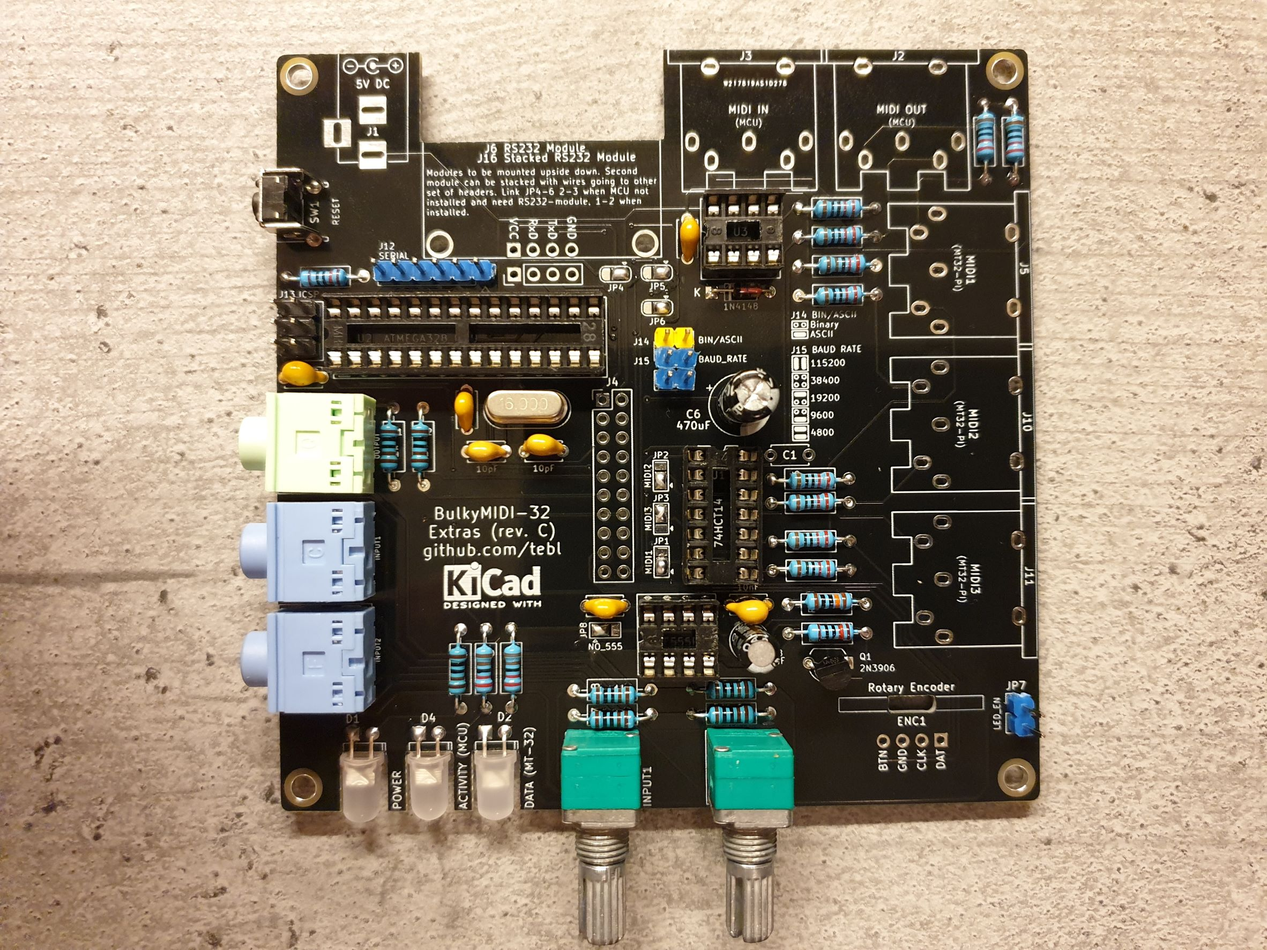
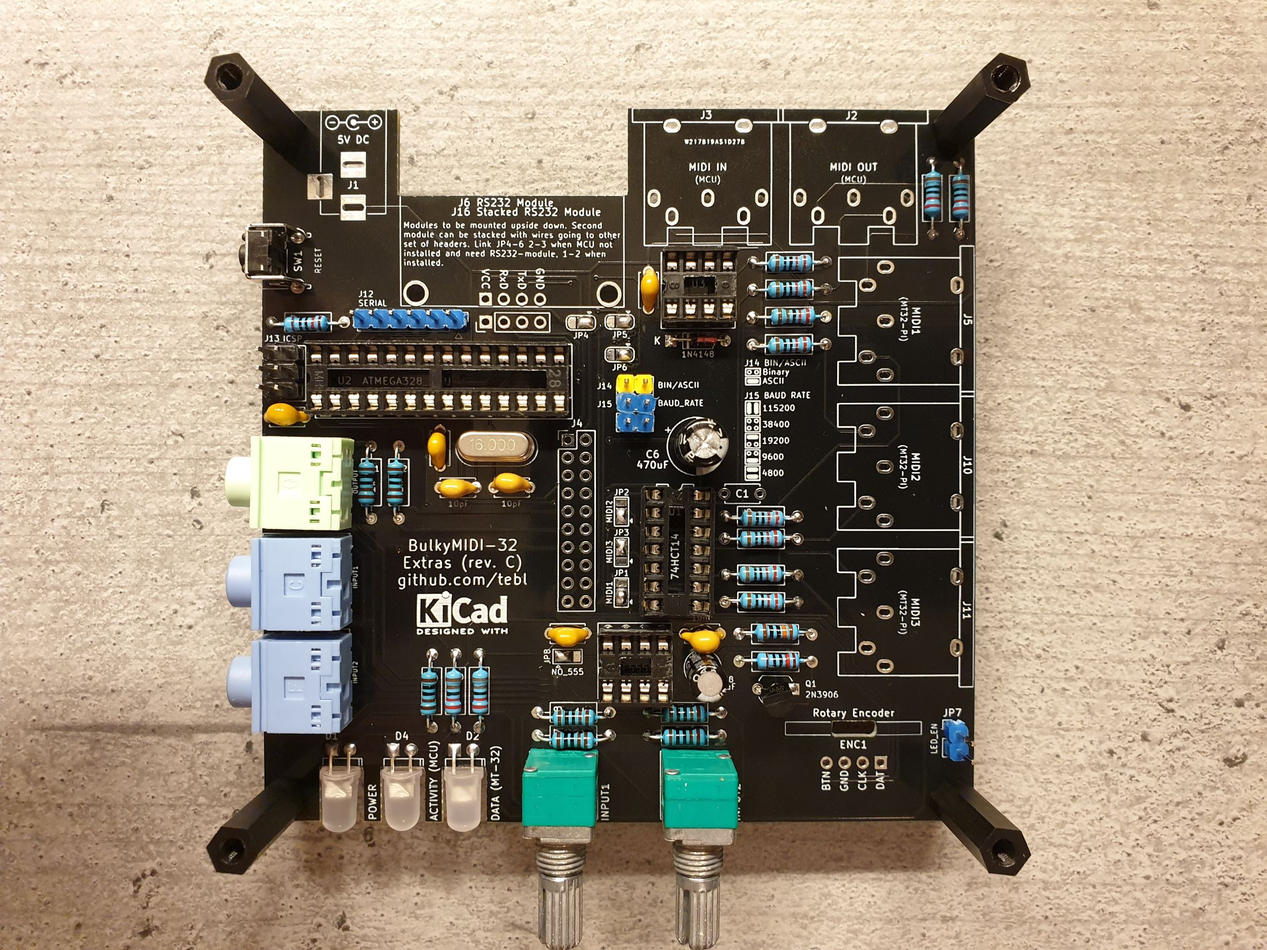
Update README

diff --git a/BulkyMIDI-32 Extras/README.md b/BulkyMIDI-32 Extras/README.md
@@ -1,7 +1,7 @@
 # BulkyMIDI-32 Extras
-Building the BulkyMIDI-32, there were a few features I wanted to add that didn't really fit within the $5 (100x100mm) dimensions on PCBWay. For that reason, the features that weren't strictly needed were instead moved onto this board instead - which is why it's referred to as the *extras* board in most of the documentation. 
+Building the BulkyMIDI-32, I quickly ran into a bit of a problem with the format I had decided upon - there were simply too many features that I had originally wanted, but couldn't fit within the regular $5 board limitations (100x100mm). All of the extra features that weren't strictly required in order for the MT32-PI to function, were moved onto this board instead - which is why it's referred to as the *extras*-board in most of the documentation. 
 
-![Build 042](https://github.com/tebl/BulkyMIDI-32/raw/main/gallery/build_extras_042.jpg)
+![Build 042](https://github.com/tebl/BulkyMIDI-32/raw/main/gallery/build_extras_049.jpg)
 
 The additional features provided by this module are as follows:
 * Providing an option for mounting RS232-modules for level translation
@@ -50,18 +50,20 @@ I will usually try to install components sorted by their physical size, doing it
 
 ![Build 002](https://github.com/tebl/BulkyMIDI-32/raw/main/gallery/build_extras_002.jpg)
 
-Here we've started by soldering all of the resistors, ensuring that we're using the correct values in each position. The single 1n4148 diode has also been installed, pay particular attention so that the black band of the components match up with the markings on the PCB footprint.
+Here we've started by soldering all of the resistors, ensuring that we're using the correct values in each position. The single 1n4148 diode has also been installed, pay particular attention so that the black band - it need to match the markings on the PCB footprint.
 
 ![Build 003](https://github.com/tebl/BulkyMIDI-32/raw/main/gallery/build_extras_003.jpg)
 
-Sockets should be installed for the two ICs needed for the complete unit - you could probably manage without them if you know that you'll only be using known good parts. However, they're cheap and you could probably afford to not be quite so *cheap*! Match the indent on the socket with that on the footprints.
+Sockets should be installed for the two ICs needed for the complete unit - you could probably manage without them if you know that you'll only be using known good parts. However, they're cheap and you could probably afford to not be quite so *cheap*! Match the indent on the socket with that on the footprints. I recommend tacking opposing corners into place, then reheat the pins and push the socket flush against the board.
 
 ![Build 004](https://github.com/tebl/BulkyMIDI-32/raw/main/gallery/build_extras_004.jpg)
 
-We've also gone ahead and installed our non-polarized capacitors, for the most part these will simply be 100nF (component marked *104*) decoupling caps added to ensure that the ICs function as intended and no values will be printed for them on the PCB. The two capacitors below the crystal are different however, these are marked on the board as 10pF (component will be marked either *100* or simply *10*).
+We've also gone ahead and installed our non-polarized capacitors, for the most part these will simply be 100nF (component marked *104*) decoupling caps added to ensure that the ICs function as intended and no values will be printed for them on the PCB. Three of the capacitors are different however, the two directly below the crystal are are marked on the board as 10pF (component itself will be marked either *100* or simply *10*). The last one is the 10nF capacitor on the bottom-right (these should be marked *103*).
+
+Not shown in any of the pictures because I forgot to install it until later, is the single transistor at Q1. If you're lucky you can get transistors with pre-bent legs to match the footprint directly, but as the regular kind costs around a tenth of these we can simply bend the legs slightly outward by ourselves. The entire reason I'm doing it this way is that I prefer soldering with a larger tip so I use a wider footprint to avoid accidentally shorting the legs. Match the flat side of the transistor to that of the footprint.
 
 ## 1.2> Install LEDs
-Somehow I managed the rather impressive task of coming up with a rather strange way of mounting the LEDs, requiring me to write a separate chapter on the things. Anyway, the idea was to have the LEDs facing forwards (there are three of them in the later designs) and so the leads need to be bent so that the back of the LED sit flush against the PCB.
+Somehow I managed the rather impressive task of coming up with a rather strange way of mounting the LEDs, requiring me to write a separate chapter on the things. Anyway, the idea was to have the LEDs facing forwards (there are three of them in the later designs) and the leads will need to be bent so that the rear of the LED sit flush against the edge of the PCB.
 
 ![Build 010](https://github.com/tebl/BulkyMIDI-32/raw/main/gallery/build_extras_010.jpg)
 
@@ -69,12 +71,12 @@ Each of the pins on the LED have their own names, mainly because it's a diode th
 
 ![Build 011](https://github.com/tebl/BulkyMIDI-32/raw/main/gallery/build_extras_011.jpg)
 
-## 1.3> The story continues
-With the LEDs in place, we'll move along to some miscellaneous components, specifically some more components required by the MCU.
+## 1.3> Crystal and jumpers
+With the LEDs in place, we'll move along to some miscellaneous components. Specifically components that will be required by the ATmega 328 MCU, a variant chosen simply because it is so familiar from working with the Arduino Uno.
 
 ![Build 012](https://github.com/tebl/BulkyMIDI-32/raw/main/gallery/build_extras_012.jpg)
 
-The crystal doesn't have a polarity, so just install it as you see fit. The switch marked *reset* is something you would normally not need to deal with, it's just here so that I can reset the MCU while developing the firmware for it - ideally a future version wouldn't randomly crash or experience any sort of buffer overruns. 
+The crystal doesn't have a polarity, so just install it as you see fit. The switch marked *SW1 / reset* is something you would normally not need to deal with, it's just here so that I can reset the MCU while developing the firmware for it - ideally a future version wouldn't randomly crash or experience any sort of buffer overruns. In case you were looking for them in the picture above, they're not there because I forgot to install them.
 
 ![Build 020](https://github.com/tebl/BulkyMIDI-32/raw/main/gallery/build_extras_020.jpg)
 
@@ -86,21 +88,21 @@ The added MIDI ports on the right side of the module, labelled MIDI 1 through 3,
 
 ![Build 021](https://github.com/tebl/BulkyMIDI-32/raw/main/gallery/build_extras_021.jpg)
 
-Male pin headers have been soldered into place, mainly just tack one of the pins into place - reaheat and adjust to find the perfect alignment (hopefully without burning your fingers). I've used some differently coloured ones, but you just use what you have.
+Additionally there's a solder jumper marked *NO_555*, this should be soldered across pins *1-2*. The other position can be used to retain the operation similar to earlier revisions of the boards, it also allows the construction of a slightly cheaper version of the board.
 
 ![Build 022](https://github.com/tebl/BulkyMIDI-32/raw/main/gallery/build_extras_022.jpg)
 
-The three 3.5mm jacks for the passive audio mixer have been soldered into place, the one on the top is the resulting output that would go to your stereo system while the two bottom ones are inputs. Ideally the colour of the output on the top should have been green and the two below them should have been blue, but I didn't have correct colours so this is what I used. At this point you would normally also install the RV097G potentiometers marked *RV1* and *RV2*, but I did not have these at the timing of building these - so just pretend that they're there for now.
+Male pin headers have been soldered into place, mainly just tack one of the pins into place - reaheat and adjust to find the perfect alignment (hopefully without burning your fingers). I've used some differently coloured ones in order to spice things up, but you just use what you have available.
 
 ![Build 023](https://github.com/tebl/BulkyMIDI-32/raw/main/gallery/build_extras_023.jpg)
 
-The *extras* board doesn't actually need a separate DC power jack as power would be provided by the *extras*-connector, marked *J4* on the board - this should only be used when the board is used standalone as a baud rate converter and in most cases you would never need it.
-
-Speaking of power, I've also soldered into place the single electrolytic capacitor at *C6* that ensures that everything on the board is properly powered. It's polarized meaning that we need to put it in the correct way, the stripe indicates the negative side and this goes into on the side of the filled in area. As with the LEDs the pins have names that I'm incapable of remembering, but if you have a longer pin then this goes on the side marked with a little plus sign.
+The three 3.5mm jacks for the passive audio mixer have been soldered into place, the one on the top is the resulting output that would go to your stereo system while the two bottom ones are inputs. Ideally the colour of the output on the top should have be green and the two below them blue, if only to keep it in line with the colour coding on 2000s computer motherboards. At this point you would normally also install the RV097G potentiometers marked *RV1* and *RV2*, but I did not have these at the timing of building these - so just pretend that they're there for now.
 
 ![Build 024](https://github.com/tebl/BulkyMIDI-32/raw/main/gallery/build_extras_024.jpg)
 
-Given that the pictures were taken while building the first prototype, I needed to ensure that everything has enough space when stacked below the main module - for the most part by trimming the parts of component leads that come into contact after adding the 5-pin DIN sockets to the board. For the spacers I'm using 20mm nylon hex standoffs, this should fit without too much attention to the details though you'll need to do some trimming in case something gets in the way.
+The *extras* board doesn't actually need a separate DC power jack as power would be provided by the *extras*-connector, marked *J4* on the board - this should only be used when the board is used standalone as a baud rate converter and in most cases you would never need it.
+
+Speaking of power, I've also soldered into place the single electrolytic capacitor at *C6* that ensures that everything on the board is properly powered. It's polarized meaning that we need to put it in the correct way, the stripe indicates the negative side and this goes into on the side of the filled in area. As with the LEDs the pins have names that I'm incapable of remembering, but if you have a longer pin then this goes on the side marked with a little plus sign. The same goes for *C8*, a smaller capacitor used for the timing on the 555.
 
 ## 1.4> Adding a rotary encoder
 A rotary encoder may be installed as a replacement for the volume up and down buttons, but given the active development of the MT32-PI firmware these may end up doing more interesting things over time so I chose to add it as an option. However, I ran into an issue with the ready-made modules found on different sites (usually referred to as the *KY-040 rotary encoder module*) - mainly that they were significantly larger than they needed to be without much in the order of features.
@@ -110,28 +112,39 @@ Finding one was built to be used at an angle proved to be easier said than done,
 ![Build 030](https://github.com/tebl/BulkyMIDI-32/raw/main/gallery/build_extras_030.jpg)
 ![Build 031](https://github.com/tebl/BulkyMIDI-32/raw/main/gallery/build_extras_031.jpg)
 
-The module is mounted on the *extras* board as expected, but to get the alignment correct it is recommended that you stack the two main modules before soldering into place. This is to ensure that the little tabs sit flush against the top part of the cutout, this should minimize the stress on the solder joints over time though it would probably outlast the rotary encoder itself (as I tend to only buy the cheapest of components).
+The module is mounted on the *extras* board as expected, but to get the alignment correct it is recommended that you stack the two main modules before finally soldering it into place on the bottom. This is to ensure that the little tabs sit flush against the top part of the cutout, minimizing stress on the solder joints over time though it would probably outlast the rotary encoder itself. 
+
+When stacking the modules, you'd use 20mm nylon hex standoffs. When the main module has already been built, you may need trim the bottom of the pins for the 5-pin DIN sockets as these may get in the way of the connectors on the *extras*-board.
 
 ## 1.5> Installing the RS-232 modules
-As previously mentioned, the *extras* board can have two of these modules stacked onto each other as long as you've got the correct one due to the differences and placement of the mounting option - you'll have to browse around for something that looks exactly like the one shown below. Usually you'll find bundles of 3 or 5 of them for the price of a cup of fancy coffee, so there's no reason why you wouldn't want a few extra in the parts-bin
+As previously mentioned, the *extras* board can have two of these modules stacked onto each other as long as you've got the correct one due to the differences and placement of the mounting option - you'll have to browse around for something that looks exactly like the one shown below. Usually you'll find bundles of 3 or 5 of them for the price of a cup of fancy coffee, so there's no reason why you wouldn't want a few extra parts to put in your dedicated parts-bin.
 
 ![Build 040](https://github.com/tebl/BulkyMIDI-32/raw/main/gallery/build_extras_040.jpg)
 ![Build 041](https://github.com/tebl/BulkyMIDI-32/raw/main/gallery/build_extras_041.jpg)
+![Build 042](https://github.com/tebl/BulkyMIDI-32/raw/main/gallery/build_extras_042.jpg)
 
-At first glance there's a lot going on in this picture, but it's easier than it looks. To start things off, the modules are installed upside down and recessed into the *extras* board in order to actually fit two of them. Starting back at the beginning, or rather the underside, I've used a couple of 20mm M2 screws with a couple of nuts added to the topside of the board to hold them in place. The bottom RS-232 module has had its pins straightened using a pair of pliers, then it was threaded onto the screws and fixed into place using another set of nuts.
-
-A third couple of nuts were added onto the screws before adding the second RS-232 module, the position of these were then adjusted to make sure that we can get the fourth and final couple of nuts onto the top. The third set of nuts added earlier and then screwed up so that they sandwich the module firmly into place. As the second RS-232 module needs to be wired into something, we're using the four directly below the modules, since I wanted them removable I've used some dupont cables with one end of the short cable cut off and soldered into the board.
-
-## 1.6> Connecting the boards
-In general the chapter where we do everything that's remaining, but to get started we'll just get those IC sockets populated by the components matching what's marked on the board. Second we'll need to add the connectivity between the two stacked modules.
-
-![Build 042, the meaning of life](https://github.com/tebl/BulkyMIDI-32/raw/main/gallery/build_extras_042.jpg)
-
-The header is labelled *J4* on the board, but viven that there's quite a lot of space between the two modules once stacked on top of eachother (with 20mm spacers in between) we can't use just any female dual row 10-pin header! We need one that looks exactly like the one pictured below, it's the only one I've seen that'll all the way down  (the thing to look for when shopping, is what looks like regular pin header plastic above the female socket part). I had some extra left over from building a stackable Raspberry Pi hat - the pin count doesn't match, but I simply cut off the parts I didn't need with some creative use of my wire clippers.
+As I'll be installing two of the modules, the second adapter will need to be wired using a short cable. Mainly because it'll be a bit of a pain to add later, we'll get that soldered into place before moving on. The ones I'm using here is just some dupont-wires with one end cut off. Some regular male pin headers have also been added.
 
 ![Build 043](https://github.com/tebl/BulkyMIDI-32/raw/main/gallery/build_extras_043.jpg)
 
-Given that this was a prototype, I added some male pin header to the *extras* board and soldered the female header to the bottom of the main module. If I was building one from scratch, I'd do that the other way around so that the main BulkyMIDI-32 module can be used without a long header poking out of the bottom. With everything temporarily connected together, now comes the time for soldering it in place - that way you're sure that the alignment of the two are as good as they can get.
+At first glance there's a lot going on in this picture, but it's easier than it looks. To start things off, the modules are installed upside down and recessed into the *extras* board in order to actually fit two of them. Starting back at the beginning, or rather the underside, I've used a couple of 20mm M2 screws with a couple of nuts per screw added to the topside of the board. Then a second set of nuts are added to finally hold the module in place. Unfortunately that'll require removing the right-angle pin header already on the board first, but that's a relatively easy job as you can heat up one pin at a time and pull it out with a pair of pliers.
+
+![Build 044](https://github.com/tebl/BulkyMIDI-32/raw/main/gallery/build_extras_044.jpg)
+
+Yet another couple of nuts were added onto the screws before adding the second RS-232 module, the position of these were then adjusted to make sure that we can get the fourth and final couple of nuts onto the top. The third set of nuts added earlier and then screwed upwards so that they sandwich the module firmly into place (use threadlock if you have the stuff). Insert the cable and you should be done.
+
+## 1.6> Connecting the boards
+Generally the chapter where we do everything that's remaining, but to get started we'll just get those IC sockets populated by the components matching what's marked on the board. Secondly, we'll need a method of connecting the two stacked modules.
+
+![Build 045](https://github.com/tebl/BulkyMIDI-32/raw/main/gallery/build_extras_045.jpg)
+
+ICs are installed just the way you expect, keeping the indent in the same place as the one on the sockets we added. For connecting the boards, this is done via the header labelled *J4* on the board. Given that there's quite a lot of space between the two modules once stacked on top of eachother (with 20mm spacers in between) we can't use just any female dual row 10-pin header, we'll either need to make a cable - or simply look for one that looks exactly like the one shown below. While shopping for parts, the thing to look for is what would look like regular pin header plastic above the female socket part. I had some extras left over from building a stackable Raspberry Pi hat, the extra pins were simply removed thanks to some rather creative use of wire clippers.
+
+![Build 048](https://github.com/tebl/BulkyMIDI-32/raw/main/gallery/build_extras_048.jpg)
+
+I recommend stacking the modules before attempting to solder the connectors together, this is needed to ensure that the height remains correct between the two. If you're worried about accidentally soldering the boards together, just aim for enough that you get the height correct - remove and then solder remaining pins. Your end result result should look something like the following.
+
+![Build 047](https://github.com/tebl/BulkyMIDI-32/raw/main/gallery/build_extras_047.jpg)
 
 ## 1.7> Installing the firmware
 This section will be a bit truncated because I cheated and nabbed one of the Atmega328p chips out of an Arduino Uno, meaning that it already had the Arduino bootloader already on it so excuse me while I skip over most of the harder stuff. Well, I can't leave it at that so the way I recommend is either following the various guides on the Internet for using another Arduino (such as [this](https://www.brennantymrak.com/articles/programming-avr-with-arduino.html) one) or buying a ready-made module if you're planning on doing it more than this once as it is kind of annoying to build and keep in one piece on a breadboard over time.
@@ -158,7 +171,7 @@ As we've previously changed the programmer to "*USBTinyISP*", we'll need to chan
 The firmware itself can for the most part be configured using the jumpers at *J14* and *J15*, one is immediately above the other though for the default operation of the device as expected you won't need to add any jumpers here. Note that there are several modes of operation provided by the device, using the ASCII setting will decode and display MIDI messages on serial as they are received as input - unfortunately it'll easily overrun the serial buffers so this is mostly only be usable when debugging equipment that don't send large bursts of data at a time. 
 
 ## 1.8> Finishing touches
-With the firmware in place, there isn't much more that is left to do other than connect the two modules together using the standoffs and finally add a faceplate to the top of the thing. If you have any caps that would fit onto the knurled shafts of the potentiometer, those would also go a long way towards finalizing the build process. The rotary encoder comes with a different type of shaft that might be a bit harder to get a hold of, but they're usually described as having a D-type shaft.
+With the firmware in place, there isn't much more that is left to do other than connect the two modules together using the standoffs and finally add a faceplate to the top of the thing. If you have any caps that would fit onto the knurled shafts of the potentiometer, those would also go a long way towards finalizing the build process. Some of the rotary encoders may come with a D-type shaft instead, but it may be worth ordering one with the same shaft as the potentiometers - makes it a lot easier to find matching knobs.
 
 ![Build 080](https://github.com/tebl/BulkyMIDI-32/raw/main/gallery/build_extras_080.jpg)
 
@@ -175,10 +188,12 @@ As detailed elsewhere in the [build](#1-building-the-device) portion of this doc
 | Reference               | Item                                                              | Count | Order  |
 | ----------------------- | ----------------------------------------------------------------- | ----- | ------ |
 | BulkyMIDI-32 Extras     | Fabricate using Gerber files                                      |     1 | [PCBWay](https://www.pcbway.com/project/shareproject/BulkyMIDI_32_Extras_9be44f98.html)
-| C1                      | 100nF ceramic capacitor (5mm)                                     |     1 |
+| C1,C10                  | 100nF ceramic capacitor (5mm)                                     |     2 |
 | C2,C5,C7 *              | 100nF ceramic capacitor (5mm)                                     |    (3)|
 | C3,C4 *                 | 10pF ceramic capacitor (5mm)                                      |    (2)|
 | C6                      | 470uF electrolytic capacitor (8mm x 3.5mm)                        |     1 |
+| C8                      | 1uF electrolytic capacitor (5mm x 2mm)                            |     1 |
+| C9                      | 10nF ceramic capacitor (5mm)                                      |     1 |
 | D1,D2,D4                | 5mm LEDs, preferably frosted (not the bright clear ones)          |    (3)|
 | D3 *                    | 1N4148N small signal diode (DO-35)                                |    (1)|
 | ENC1                    | [Vertical Rotary Encoder](https://github.com/tebl/BulkyMIDI-32/tree/main/adapters/Vertical%20Rotary%20Encoder) |    (1)|
@@ -192,20 +207,25 @@ As detailed elsewhere in the [build](#1-building-the-device) portion of this doc
 | J13 *                   | 2x3 segment of dual row male pin headers                          |    (1)|
 | J14 *                   | 2x2 segment of dual row male pin headers                          |    (1)|
 | J16                     | RS-232-module stacked on top of J6, wired to pads below module    |    (1)|
-| R4                      | 1k ohm resistor                                                   |    (1)|
-| R5                      | 2k2 (2200) ohm resistor                                           |    (1)|
+| JP7                     | 2-pin segment of male pin headers                                 |     1 |
+| Q1                      | 2n3906 transistor (TO-92)                                         |     1 |
 | R1,R2,R18 *             | 220 ohm resistor                                                  |    (3)|
 | R3,R6,R13,R14,R15,R16 * | 220 ohm resistor                                                  |    (6)|
+| R4                      | 1k ohm resistor                                                   |    (1)|
+| R5                      | 2k2 (2200) ohm resistor                                           |    (1)|
 | R7-R12                  | 1k ohm resistor                                                   |     6 |
 | R17 *                   | 10k ohm resistor                                                  |    (1)|
-| R19                     | 2k2 (2200) ohm resistor                                           |     1 |
+| R19                     | 2k2 (2200) ohm resistor                                           |     2 |
 | R20 *                   | 2k2 (2200) ohm resistor                                           |    (1)|
+| R21                     | 100k ohm resistor                                                 |     1 |
+| R22                     | 10k ohm resistor                                                  |     1 |
 | RV1,RV2                 | RV097G 10k (stereo audio potentimeter)                            |     2 |
 | U1                      | 74HCT14 (DIP-14)                                                  |     1 |
 | U2 *                    | ATmega328P (DIP-28, narrow socket)                                |    (1)|
 | U3 *                    | 6N138 opto-coupler (DIP-8)                                        |    (1)|
+| U4                      | NE555P (DIP-8)                                                    |     1 |
 | Y1 *                    | 16 Mhz crystal (HC-49S)                                           |    (1)|
-| SW1 *                   | 6x6mm momentary button                                            |    (1)|
+| SW1 *                   | 6x6x5mm right-angle momentary button                              |    (1)|
 | Mounting ***            | 20mm M2 screws                                                    |    (2)|
 | Mounting ***            | 20mm M2 nuts                                                      |    (6)|
 | Mounting ****           | Nylon M3 hex standoffs 20mm (M-F)                                 |     4 |
